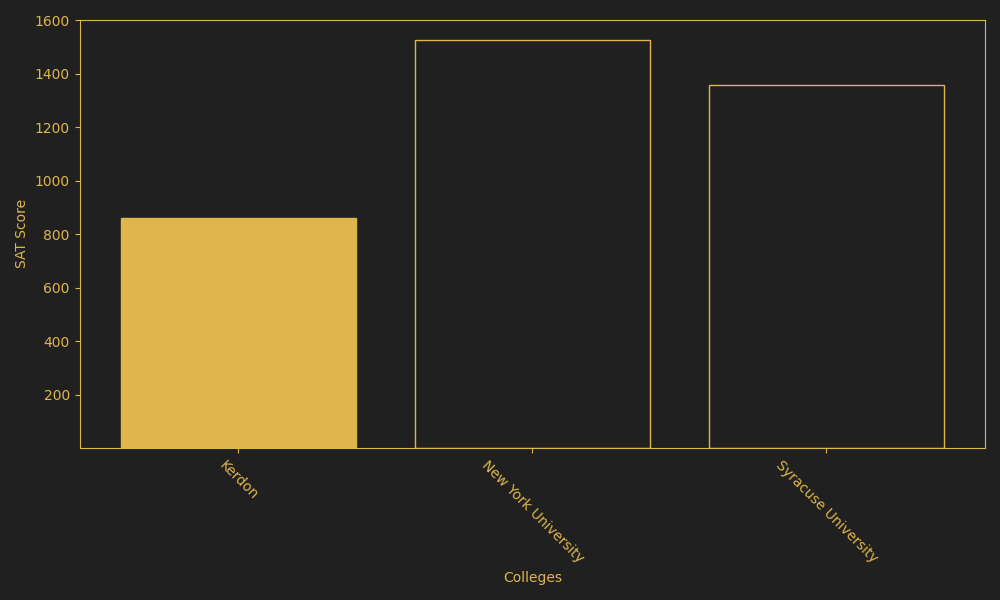
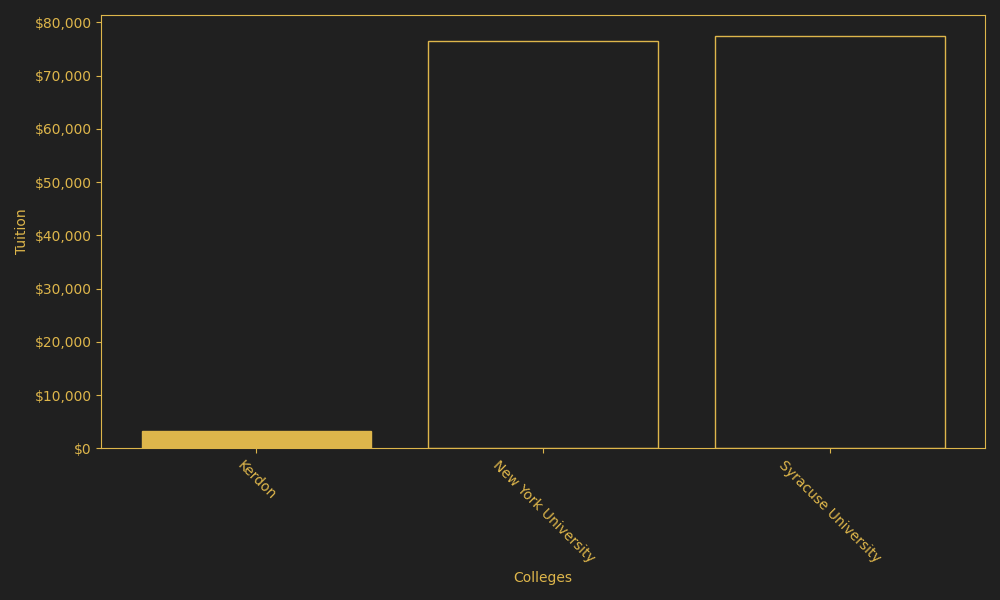
Added category switching and formatting for currency

diff --git a/static/styles/style.css b/static/styles/style.css
@@ -190,9 +190,22 @@ hr {
     border-color: #DEB64B;
 }
 
+.custom-button-inverted {
+    color: #202020;
+    background-color:  #DEB64B;
+    border-color: transparent;
+}
+
 .custom-button:hover {
     color: #202020;
     background-color: #DEB64B;
+
+}
+
+.custom-button-inverted:hover {
+    color: #DEB64B;
+    background-color: #202020;
+    border-color: #DEB64B;
 
 }
 
@@ -250,7 +263,7 @@ hr {
     color: #DEB64B;
 }
 
-.custom-border {
+.custom-border{
     border-color: #DEB64B;
 }
 

diff --git a/main.py b/main.py
@@ -218,9 +218,7 @@ def browse():
     return render_template("browse.html.jinja", colleges=colleges, page=page, query=query, customer_id=customer_id)
     # Note: For now, the database connection and data fetcher are placeholders. This WILL be changed later as neccessary.  
 
-# Analytics page (college and user graphs for comparison and analysis)
-@app.route("/analytics", methods=["Post", "GET"])
-def analytics_page():
+def graph_data(comparing_category):
     
     empty=0
     
@@ -243,25 +241,25 @@ def analytics_page():
     #User id (dynamic)
     customer_id=flask_login.current_user.id
 
-    #Settings for which graph to generate (will change dynamically)
-    comparing_catagory=1
-
     compare_sat=False
     compare_tuition=False
     compare_distance=False
 
-    if comparing_catagory==1:
+    if comparing_category==1:
         compare_sat=True
         comparing="average_sat"
+        category="SAT scores"
         
-    elif comparing_catagory==2:
+    elif comparing_category==2:
         compare_tuition=True
         comparing="tuition"
+        category="Tuition"
         
-    elif comparing_catagory==3:
+    elif comparing_category==3:
         compare_distance=True
-        comparing="tuition_budget"
-
+        comparing="distance"
+        category="Distance"
+        
     if compare_sat==True:
         title="Student SAT Score vs College SAT Admission Requirements"
         
@@ -382,145 +380,79 @@ def analytics_page():
         empty=True
     else:
         empty=False
+    
+    d={}
+    d["colleges"]=colleges
+    d["empty"]=empty
+    d["comparing"]=comparing
+    d["category"]=category
+    d["data"]=data
+    d["names"]=names
+    
+    d["compare_tuition"]=compare_tuition
+    d["compare_sat"]=compare_sat
+    d["compare_distance"]=compare_distance
         
+    return (d)
 
-    return render_template('analytics.html.jinja', colleges=colleges, empty=empty, comparing=comparing)
+# Analytics page (college and user graphs for comparison and analysis)
+@app.route("/analytics", methods=["Post", "GET"])
+def analytics_page():
+
+    comparing_category=request.args.get('category', )
+    
+    if comparing_category==None:
+        comparing_category=1
+    else:
+        comparing_category=int(comparing_category)
+        
+    customer_id=flask_login.current_user.id
+    
+    conn=connect_db()
+    cursor=conn.cursor()
+    
+    cursor.execute(f"""
+                   
+    UPDATE `User`
+    SET `comparing_category` = %s
+    WHERE `id` = %s
+                   
+                   """,(comparing_category,customer_id))
+
+    d=graph_data(comparing_category)      
+
+    return render_template('analytics.html.jinja', colleges=d["colleges"], empty=d["empty"], comparing=d["comparing"], category=d["category"])
 
 @app.route('/plot.png')
 def plot():
-    #User id (dynamic)
+    
+    #Initialization
     customer_id=flask_login.current_user.id
-
-    #Settings for which graph to generate (will change dynamically)
-    comparing_catagory=1
-
-    compare_sat=False
-    compare_tuition=False
-    compare_distance=False
-
-    if comparing_catagory==1:
-        compare_sat=True
-        
-    elif comparing_catagory==2:
-        compare_tuition=True
-        
-    elif comparing_catagory==3:
-        compare_distance=True
-
-    if compare_sat==True:
-        comparing="Student SAT Score vs College SAT Admission Requirements"
-        
-    elif compare_tuition==True:
-        comparing="Student Tuition Budget vs Average College Tuition"
-
-    elif compare_distance==True:
-        comparing="Distance between Colleges and User's Zip Code"
-        
-
-
-    #Database connection
     conn = connect_db()
-    cursor=conn.cursor()
-
-    #Selects college info from every college on the user's list
-    cursor.execute(f"""
-
-    SELECT `name`, `tuition`, `admission_rate`, `average_sat`, `size`, `city`, `state`, `longitude`, `latitude`
-    FROM `CollegeList`
-    LEFT JOIN `Colleges`
-    ON `CollegeList`.`college_id` = `Colleges`.`id`
-    WHERE `CollegeList`.`user_id`= %s 
-            """,(customer_id))
-
-    #Stores college results
-    college_results=cursor.fetchall()
-
-    #Selects user's info based on their id
-    cursor.execute(f"""
-                    
-    SELECT `first_name`, `sat_score`, `tuition_budget`, `zip_code`
-    FROM `User`
-    WHERE `id` = %s  
-                    
-                    """,(customer_id))
-
-    #Stores user info, then converts into a single dictionary
-    student_results=cursor.fetchall()
-    student_results=student_results[0]
-
-    if compare_distance==True:
-        names=[]
-        
-    else:
-        #Initializes name list with first index being the user's name
-        names=[student_results['first_name']]
-
-
-
-    #If each setting is selected, data list is set to the selected data comparisor
-    if compare_sat==True:
-        data=[student_results['sat_score']]
-
-    elif compare_tuition==True:
-        data=[student_results['tuition_budget']]
-
-    if compare_distance==True:
-        data=[]
-
-    print(college_results)
-
-    for college in college_results:
-        names.append(college["name"])
-
-        if compare_sat==True:
-            if college["average_sat"]==None:
-                names.remove(college["name"])
-            else:
-                data.append(college["average_sat"])
-
-        elif compare_tuition==True:
-            if college["tuition"]==None:
-                names.remove(college["name"])
-            else:
-                data.append(college['tuition'])
-                
-        elif compare_distance==True:
-            
-            cursor.execute(f"""
-                        
-            SELECT `lat`, `lng`
-            FROM `Locations`
-            WHERE `zip` = %s               
-                        
-                        """, (student_results['zip_code']))
-            
-            student_coordinates=cursor.fetchone()
-            
-            def haversine(lon1, lat1, lon2, lat2):
-                """
-                Calculate the great circle distance in kilometers between two points 
-                on the earth (specified in decimal degrees)
-                """
-                # convert decimal degrees to radians 
-                lon1, lat1, lon2, lat2 = map(radians, [lon1, lat1, lon2, lat2])
-
-                # haversine formula 
-                dlon = lon2 - lon1 
-                dlat = lat2 - lat1 
-                a = sin(dlat/2)**2 + cos(lat1) * cos(lat2) * sin(dlon/2)**2
-                c = 2 * asin(sqrt(a)) 
-                r = 3956 # Radius of earth in kilometers. Use 3956 for miles. Determines return value units.
-                return c * r
-            
-            print(college_results)
-            print(student_coordinates)
-            
-            print(college['longitude'])
-            print(college['latitude'])
-            
-            data.append(int(haversine(student_coordinates['lng'], student_coordinates['lat'], college['longitude'], college['latitude'])))
-
-    assert data
+    cursor = conn.cursor()
+    
+    #Get the user's compared category from the database
+    cursor.execute("""
+                   
+    SELECT `comparing_category` FROM `User` 
+    WHERE `id`=%s
+                   
+                   """,(customer_id))
+    
+    comparing_category=cursor.fetchone()
+    
+    comparing_category=comparing_category['comparing_category']
+    
+    #Runs the graph data generation script
+    d=graph_data(comparing_category)
+    
+    #Stores data from graph data script
+    names=d["names"]
+    data=d["data"]
+    compare_tuition=d["compare_tuition"]
+    compare_sat=d["compare_sat"]
+    compare_distance=d["compare_distance"]
+    
 
     #Creates figure
     fig=Figure(figsize=(10,6), facecolor='#202020', edgecolor='#ffffff')
@@ -549,17 +481,23 @@ def plot():
     subplot.xaxis.label.set_color('#DEB64B')
     subplot.yaxis.label.set_color('#DEB64B')
     
-    if compare_tuition:
+    #Creates a bar graph in the subplot
+    bar=subplot.bar(names,data,color='#202020', edgecolor='#DEB64B')
+        
+    # Changes the first bar to gold
+    bar[0].set_color('#DEB64B')
+    
+    #Rotates the College labels to 
+    subplot.xaxis.set_tick_params(rotation=315)
+    
+    if compare_tuition==True:
 
         #Label names
         subplot.set_xlabel('Colleges')
         subplot.set_ylabel('Tuition')
         
-        #Creates a bar graph in the subplot
-        bar=subplot.bar(names,data,color='#202020', edgecolor='#DEB64B')
-        
         #Formats to use currency
-        subplot.yaxis.set_major_formatter('${x:1.2f}')
+        subplot.yaxis.set_major_formatter('${x:,.0f}')
     
     elif compare_sat==True:
         
@@ -567,17 +505,9 @@ def plot():
         subplot.set_xlabel('Colleges')
         subplot.set_ylabel('SAT Score')
         
-        # Create a bar graph in the subplot
-        bar=subplot.bar(names,data,color='#202020', edgecolor='#DEB64B')
-        
-        # Changes the first bar to gold
-        bar[0].set_color('#DEB64B')
-        
         # Changes the y label range to fit SAT scores
         subplot.set_yticks((1600, 1400, 1200, 1000, 800, 600, 400, 200))
         
-        #Rotates the College labels to 
-        subplot.xaxis.set_tick_params(rotation=315)
 
     fig.savefig("graph1.png", dpi='figure')
 
